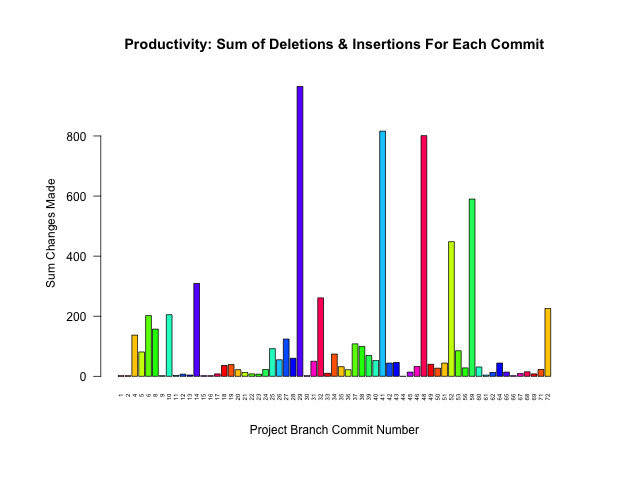
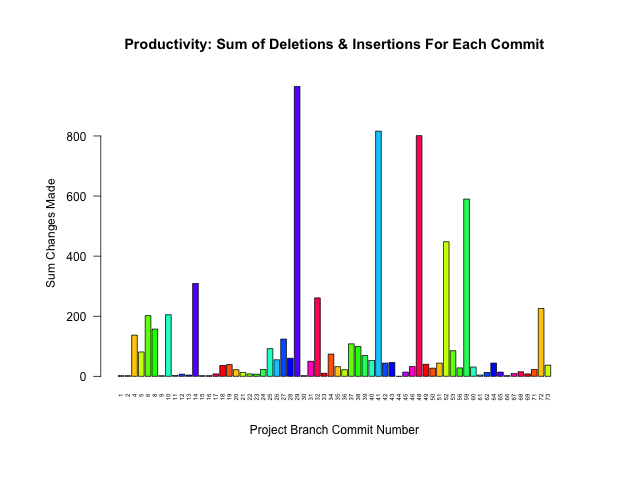
COMMIT #292

Changed region(s): [[0.3438, 0.1875, 0.875, 0.7812], [0.2188, 0.8125, 0.8438, 0.8438], [0.1875, 0.5938, 0.3125, 0.7812]]

diff --git a/README.md b/README.md
@@ -17,9 +17,9 @@ ProjectName::BranchName.data
 
 Project Name | Last Updated | # Commits | # Branches | Branches Merged
 :---|:---:|:---:|:---:|:---:
+[FASTQ_examiner](https://github.com/pierremigeon/FASTQ_examiner)                                    |  2023-08-15  |  80   |  5   |  60%   (3/5)
 [Algorithms_practice](https://github.com/pierremigeon/Algorithms_practice)                          |  2023-08-14  |  41   |  10  |  90%   (9/10)
-[commit_tracker](https://github.com/pierremigeon/commit_tracker)                                    |  2023-08-14  |  290  |  1   |  100%  (1/1)
-[FASTQ_examiner](https://github.com/pierremigeon/FASTQ_examiner)                                    |  2023-07-28  |  80   |  4   |  75%   (3/4)
+[commit_tracker](https://github.com/pierremigeon/commit_tracker)                                    |  2023-08-14  |  291  |  1   |  100%  (1/1)
 [learn_some_C.Plus.Plus](https://github.com/pierremigeon/learn_some_C.Plus.Plus)                    |  2023-07-17  |  79   |  2   |  50%   (1/2)
 [libft](https://github.com/pierremigeon/libft)                                                      |  2023-06-05  |  30   |  2   |  50%   (1/2)
 [ft_printf](https://github.com/pierremigeon/ft_printf)                                              |  2023-06-01  |  37   |  2   |  100%  (2/2)

diff --git a/FASTQ_examiner_project/readme.md b/FASTQ_examiner_project/readme.md
@@ -1,1 +1,1 @@
-![test_image](https://github.com/pierremigeon/commit_tracker/blob/master/FASTQ_examiner_project/FASTQ_examiner::master.data_sum_barplot.png)
+![test_image](https://github.com/pierremigeon/commit_tracker/blob/master/FASTQ_examiner_project/FASTQ_examiner::table.data_sum_barplot.png)
